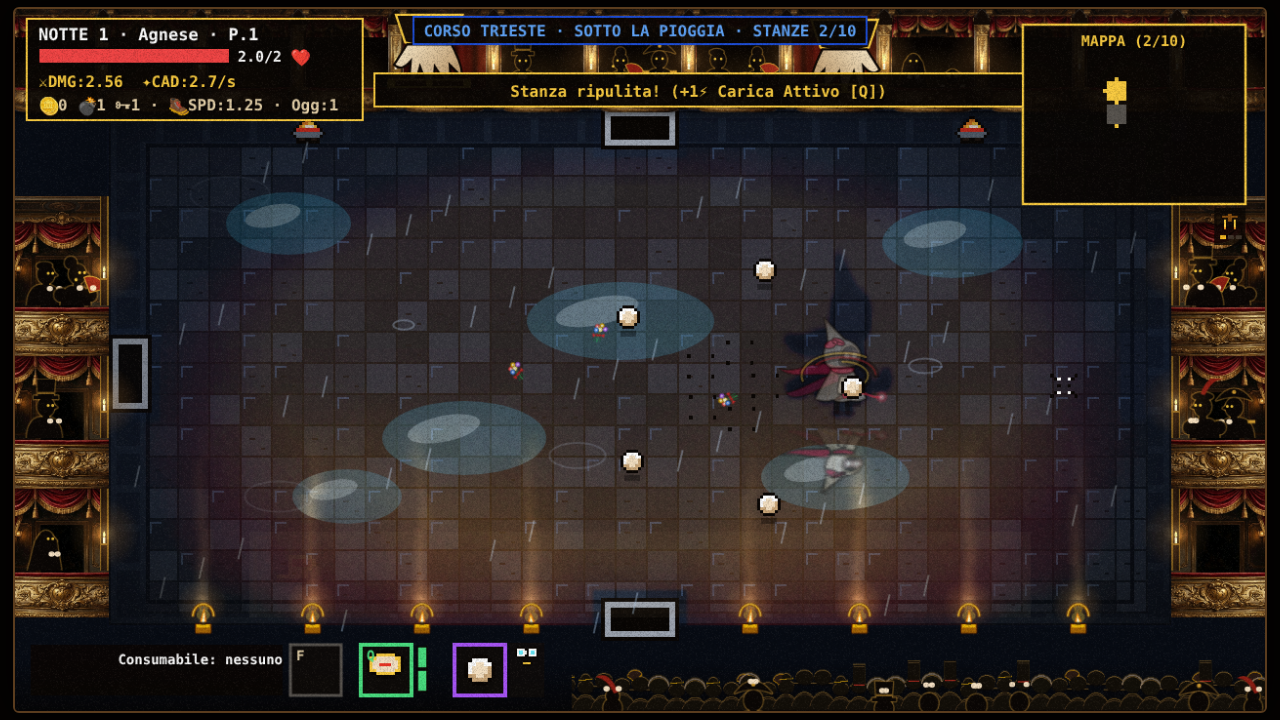
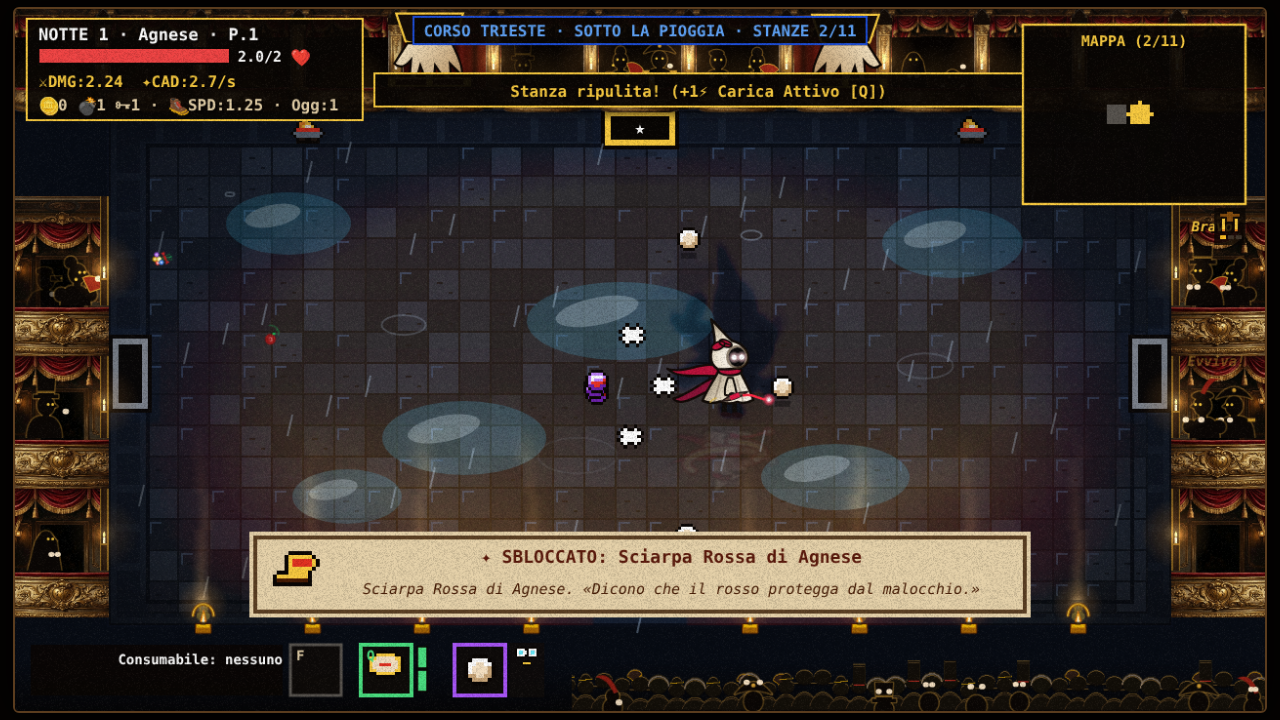
feat(teatro): effetti leggibili (nastro di seta, mezzaluna del maglio, lampi, scia spettrale) e danno dell'Ombra riportato in scala
L'Ombra perde l'Anello Cremisi (x1.5 e +0.8: DMG 10.71, tre volte Ferruccio);
Agnese a 2.80 di base con la Lente.

Story: d2-personaggi

Claude-Session: https://claude.ai/code/session_01F5x6kDAQ4qaiYDiFx9jQb5

diff --git a/gioco/teatro/d2-personaggi.js b/gioco/teatro/d2-personaggi.js
@@ -70,7 +70,7 @@ const TESTI_D2 = Object.freeze({
     taddeo: 'Mena il maglio: tieni premuto per caricare',
     ombra: 'Un colpo e cade · vola · colpi spettrali',
   }),
-  dono: Object.freeze({ taddeo: '🔨 Maglio della Guardia', ombra: '🩸 Anello Cremisi' }),
+  dono: Object.freeze({ taddeo: '🔨 Maglio della Guardia', ombra: '✦ Colpi Spettrali' }),
   vitaOmbra: '½ (non si cura)',
   bottone: 'MOSSA',
   monete: (n) => `Maschera ridotta in ${n} monete`,
@@ -83,7 +83,13 @@ const d2 = {
   rotti: 0, colpiMaglio: 0, nelMaglio: false,
   rec: { tick: -1, x: 0, y: 0, mx: 0, my: 0, leva: false },
   scia: [], sciaI: 0, sorvoli: 0,
+  lampi: [],             // { x, y, t, tipo } lampi delle deviazioni e polvere del maglio (al più 24)
 };
+
+function lampoD2(x, y, tipo) {
+  if (d2.lampi.length >= 24) d2.lampi.shift();
+  d2.lampi.push({ x, y, t: tick, tipo, a: (x * 7 + y * 3) % 6.28 });
+}
 
 /** Id del personaggio della run. */
 function personaggioD2() { return (statoRun && statoRun.personaggioId) || 'ferruccio'; }
@@ -158,6 +164,7 @@ function passoPiroettaD2() {
     });
     statoRun.effettiSplash.push({ x: pr.x, y: pr.y, tick: 0 });
     d2.deviati++;
+    lampoD2(pr.x, pr.y, 'lampo');
     suonoD2(1700, 900, 90, 'square', 0.03);
   }
   d2.giro--;
@@ -271,8 +278,9 @@ function colpoMaglioD2(dx, dy, frac) {
     sparaBaseD2(dx, dy, M.ondaScala);
   }
   d2.arco = { ang, mezzo, r: R, t0: tick, pieno: frac >= 0.99 };
+  for (let i = 0; i < 5; i++) { const t = ang + (i / 4 - 0.5) * mezzo * 1.6; lampoD2(hx + Math.cos(t) * R * 0.8, hy + 6 + Math.sin(t) * R * 0.6, 'polvere'); }
   d2.colpiMaglio++;
-  if (colpiti > 0 || frac > 0.5) scuoti(FEEL.scossa.bomba);
+  scuoti(colpiti > 0 || frac > 0.5 ? FEEL.scossa.bomba : FEEL.scossa.ferita);
   try { AudioSys.playFendente(); } catch (_) { /* niente */ }
   suonoD2(160 + 60 * frac, 50, 160, 'sawtooth', 0.05);
 }
@@ -394,17 +402,24 @@ function bottoneMossaD2() {
 function disegnaNastroD2(g, x, y) {
   const P = STILI_D2.agnese.piroetta;
   const k = 1 - d2.giro / P.durataTick;
-  const giro = k * Math.PI * 4;
+  const giro = k * Math.PI * 5;
   g.save();
   g.globalAlpha = 1; // il nastro non lampeggia con l'invulnerabilità
   g.lineCap = 'round';
+  // tre spire di seta chiara col bordo rosso; ognuna lascia dietro una scia che sfuma
   for (let s = 0; s < 3; s++) {
-    const r = 13 + s * 4;
-    const a0 = giro - s * 0.9;
-    g.beginPath();
-    g.ellipse(x, y - 12, r, r * 0.55, 0, a0, a0 + 2.4);
-    g.strokeStyle = 'rgba(12,6,4,0.9)'; g.lineWidth = 5.5 - s; g.stroke();
-    g.strokeStyle = s === 1 ? 'rgba(220,38,38,0.95)' : 'rgba(249,203,64,0.95)'; g.lineWidth = 1.6; g.stroke();
+    const r = 12 + s * 5, cy = y - 6 - s * 7;
+    const a0 = giro + s * 2.1;
+    for (let q = 3; q >= 0; q--) {
+      const b = a0 - q * 0.45;
+      g.globalAlpha = q === 0 ? 1 : 0.5 - q * 0.12;
+      g.beginPath(); g.ellipse(x, cy, r, r * 0.42, 0, b, b + 2.2);
+      g.strokeStyle = '#7f1d1d'; g.lineWidth = 6; g.stroke();
+      g.strokeStyle = '#f3e6cf'; g.lineWidth = 3.4; g.stroke();
+    }
+    g.globalAlpha = 1;
+    g.beginPath(); g.ellipse(x, cy, r, r * 0.42, 0, a0 + 0.2, a0 + 2.0);
+    g.strokeStyle = 'rgba(249,203,64,0.9)'; g.lineWidth = 0.8; g.stroke();
   }
   g.restore();
 }
@@ -414,22 +429,92 @@ function disegnaArcoD2(g, x, y) {
   const k = (tick - A.t0) / M.animTick;
   if (k < 0 || k > 1) return;
   g.save();
-  g.globalAlpha = 1 - k * 0.8;
-  const cx = x, cy = y - 6, r0 = Math.max(6, A.r * 0.45), r1 = A.r * (0.85 + 0.15 * k);
+  g.globalAlpha = 1;
+  const cx = x, cy = y - 6, r1 = A.r * (0.92 + 0.12 * k), sp = A.r * (A.pieno ? 0.42 : 0.34);
   const a0 = A.ang - A.mezzo, a1 = A.ang + A.mezzo;
-  g.beginPath();
-  g.ellipse(cx, cy, r1, r1 * 0.8, 0, a0, a1);
-  g.ellipse(cx, cy, r0, r0 * 0.8, 0, a1, a0, true);
-  g.closePath();
-  g.fillStyle = 'rgba(14,8,5,0.78)'; g.fill();
-  g.strokeStyle = 'rgba(249,203,64,0.35)'; g.lineWidth = 0.8; g.stroke();
-  g.beginPath(); g.ellipse(cx, cy, r1, r1 * 0.8, 0, a0, a1);
-  g.strokeStyle = A.pieno ? 'rgba(239,68,68,1)' : 'rgba(249,203,64,1)'; g.lineWidth = A.pieno ? 2.8 : 2.2; g.stroke();
-  // tre righe di moto lungo l'arco
-  for (let i = 1; i <= 3; i++) {
-    const t = a0 + (a1 - a0) * (i / 4), rr = r1 * (0.62 + 0.08 * i);
-    g.beginPath(); g.ellipse(cx, cy, rr, rr * 0.8, 0, t - 0.25, t + 0.25);
-    g.strokeStyle = 'rgba(249,203,64,0.6)'; g.lineWidth = 0.9; g.stroke();
+  const fino = a0 + (a1 - a0) * Math.min(1, k * 2.2); // il maglio cala lungo l'arco nei primi tick
+  const mezzaluna = (inizio, fineA, rr, spess) => {
+    const mid = (inizio + fineA) / 2;
+    g.beginPath();
+    g.ellipse(cx, cy, rr, rr * 0.8, 0, inizio, fineA);
+    // bordo interno: più vicino al centro nel mezzo, a filo agli estremi (mezzaluna)
+    const n = 10;
+    for (let i = n; i >= 0; i--) {
+      const t = inizio + (fineA - inizio) * (i / n);
+      const sx = spess * Math.sin(Math.PI * (i / n)) * (0.4 + 0.6 * Math.cos((t - mid) * 0.5));
+      g.lineTo(cx + Math.cos(t) * (rr - sx), cy + Math.sin(t) * (rr - sx) * 0.8);
+    }
+    g.closePath();
+  };
+  // scia della mezzaluna
+  g.globalAlpha = 0.35 * (1 - k);
+  mezzaluna(a0, fino, r1 * 1.06, sp * 1.3);
+  g.fillStyle = '#7c5a1e'; g.fill();
+  g.globalAlpha = 1 - k * 0.75;
+  mezzaluna(a0, fino, r1, sp);
+  g.fillStyle = A.pieno ? '#d9a23a' : '#c8a24a'; g.fill();
+  g.strokeStyle = '#140a04'; g.lineWidth = 1.6; g.stroke();
+  if (A.pieno) { g.strokeStyle = 'rgba(220,38,38,0.9)'; g.lineWidth = 0.9; g.stroke(); }
+  // il maglio che cala: manico e testa sagomati, alla punta della mezzaluna
+  if (k < 0.6) {
+    const hxm = cx + Math.cos(fino) * r1 * 0.85, hym = cy + Math.sin(fino) * r1 * 0.68;
+    g.beginPath(); g.moveTo(cx, cy - 4); g.lineTo(hxm, hym);
+    g.strokeStyle = '#140a04'; g.lineWidth = 3; g.stroke();
+    g.strokeStyle = '#8a5a2b'; g.lineWidth = 1.4; g.stroke();
+    g.save(); g.translate(hxm, hym); g.rotate(fino + Math.PI / 2);
+    g.fillStyle = '#1a120c'; g.fillRect(-6, -4, 12, 8);
+    g.strokeStyle = '#f9cb40'; g.lineWidth = 1; g.strokeRect(-6, -4, 12, 8);
+    g.restore();
+  }
+  g.restore();
+}
+
+/** Lampi delle deviazioni (stella di luce) e sbuffi di polvere del maglio. */
+function disegnaLampiD2(g) {
+  if (!d2.lampi.length) return;
+  g.save();
+  for (const L of d2.lampi) {
+    const dur = L.tipo === 'lampo' ? 10 : 22;
+    const k = (tick - L.t) / dur;
+    if (k < 0 || k > 1) continue;
+    if (L.tipo === 'lampo') {
+      g.globalAlpha = 1 - k;
+      const r = 5 + k * 12;
+      g.beginPath();
+      for (let i = 0; i < 8; i++) {
+        const t = L.a + i * Math.PI / 4, rr = i % 2 ? r * 0.35 : r;
+        g.lineTo(L.x + Math.cos(t) * rr, L.y + Math.sin(t) * rr);
+      }
+      g.closePath();
+      g.fillStyle = '#fff4cf'; g.fill();
+      g.strokeStyle = '#dc2626'; g.lineWidth = 1; g.stroke();
+    } else {
+      g.globalAlpha = 0.55 * (1 - k);
+      g.beginPath(); g.ellipse(L.x + Math.cos(L.a) * k * 8, L.y - k * 6, 3 + k * 7, 2 + k * 4, 0, 0, Math.PI * 2);
+      g.fillStyle = '#6b5a45'; g.fill();
+    }
+  }
+  g.restore();
+}
+
+/** Scia spettrale dei colpi dell'Ombra: coda lilla che sfuma dietro ogni colpo. */
+function disegnaColpiSpettraliD2(g) {
+  const L = statoRun.proiettili;
+  g.save();
+  g.lineCap = 'round';
+  for (let i = 0; i < L.length; i++) {
+    const q = L[i];
+    if (!q || !q.spettraleD2) continue;
+    const v = Math.hypot(q.vx, q.vy) || 1, ux = q.vx / v, uy = q.vy / v;
+    for (let s = 3; s >= 1; s--) {
+      g.globalAlpha = 0.5 - s * 0.12;
+      g.beginPath(); g.moveTo(q.x, q.y); g.lineTo(q.x - ux * s * 7, q.y - uy * s * 7 + Math.sin((tick + i * 5) * 0.4 + s) * 1.5);
+      g.strokeStyle = '#0b0710'; g.lineWidth = 7 - s; g.stroke();
+      g.strokeStyle = '#c4b5fd'; g.lineWidth = 2.6 - s * 0.5; g.stroke();
+    }
+    g.globalAlpha = 0.8;
+    g.beginPath(); g.arc(q.x, q.y, 5.5, 0, Math.PI * 2);
+    g.strokeStyle = 'rgba(196,181,253,0.85)'; g.lineWidth = 1; g.stroke();
   }
   g.restore();
 }
@@ -475,12 +560,13 @@ const disegnaFerruccioBaseD2 = disegnaFerruccioPittorico;
 disegnaFerruccioPittorico = function disegnaFerruccioD2(g, px, py) {
   const inScena = g && typeof g.save === 'function' && statoRun.fase === 'in_gioco' && px === player.x && py === player.y;
   const pid = personaggioD2();
-  if (inScena && pid === 'ombra') { try { disegnaSciaD2(g); } catch (_) { /* niente */ } }
+  if (inScena && pid === 'ombra') { try { disegnaSciaD2(g); disegnaColpiSpettraliD2(g); } catch (_) { /* niente */ } }
   const r = disegnaFerruccioBaseD2.apply(this, arguments);
   if (inScena) {
     try {
       if (pid === 'agnese') { if (d2.giro > 0) disegnaNastroD2(g, px, py); else disegnaRicaricaD2(g, px, py); }
       if (pid === 'taddeo') { if (d2.arco) disegnaArcoD2(g, px, py); disegnaCaricaD2(g, px, py); }
+      disegnaLampiD2(g);
     } catch (_) { /* il disegno non deve fermare il gioco */ }
   }
   return r;

diff --git a/tools/qa-teatro-personaggi.js b/tools/qa-teatro-personaggi.js
@@ -136,6 +136,8 @@ const foto = (n) => `${prefisso}-${n}.png`;
   await passi(1, "const st = statoRun.stanzaCorrente; const o = { tipo: 'colonna', variante: 'vaso', x: 335, y: 195, r: 11, w: 22, h: 22, fragileB7: { genere: 'comune', colpi: 3, esplode: false } }; st.ostacoli.push(o); st.fragiliB7 = [o];");
   await passi(4, 'keys.ArrowRight = true;');
   await passi(2, 'keys.ArrowRight = false;');
+  // il ciclo vero recupera i tick spesi qui: per la foto l'arco riparte da «2 tick fa»
+  await p.evaluate(() => { const D = window.__teatro.interni.personaggiD2.d2; if (D.arco) D.arco.t0 = tick - 1; for (const L of D.lampi) L.t = tick - 1; });
   await p.screenshot({ path: foto('03-taddeo-maglio') });
   await passi(10);
   const dopoVaso = await p.evaluate(() => ({ ostacoli: statoRun.stanzaCorrente.ostacoli.length, proiettili: statoRun.proiettili.length, rotti: window.__teatro.interni.personaggiD2.d2.rotti }));

diff --git a/gioco/teatro/00-config.js b/gioco/teatro/00-config.js
@@ -311,7 +311,7 @@ const PERSONAGGI_GIOCABILI = {
   },
   agnese: {
     id: 'agnese', nome: 'Agnese', titolo: 'La Tessitrice di San Leucio',
-    hpHalf: 4, baseDmg: 3.20, baseSpd: 1.25, attivoIniziale: 'tamburello', passivoIniziale: 'doppia',
+    hpHalf: 4, baseDmg: 2.80, baseSpd: 1.25, attivoIniziale: 'tamburello', passivoIniziale: 'doppia',
   },
   taddeo: {
     id: 'taddeo', nome: 'Taddeo', titolo: 'La Guardia Pentita',
@@ -319,7 +319,7 @@ const PERSONAGGI_GIOCABILI = {
   },
   ombra: {
     id: 'ombra', nome: 'L\'Ombra Senza Fili', titolo: 'La Sagoma Fuggita dal Telone',
-    hpHalf: 1, baseDmg: 5.10, baseSpd: 1.12, attivoIniziale: 'forbici', passivoIniziale: 'anello',
+    hpHalf: 1, baseDmg: 5.10, baseSpd: 1.12, attivoIniziale: 'forbici', passivoIniziale: null, // (d2) i colpi spettrali sono il suo dono
   },
 };
 
